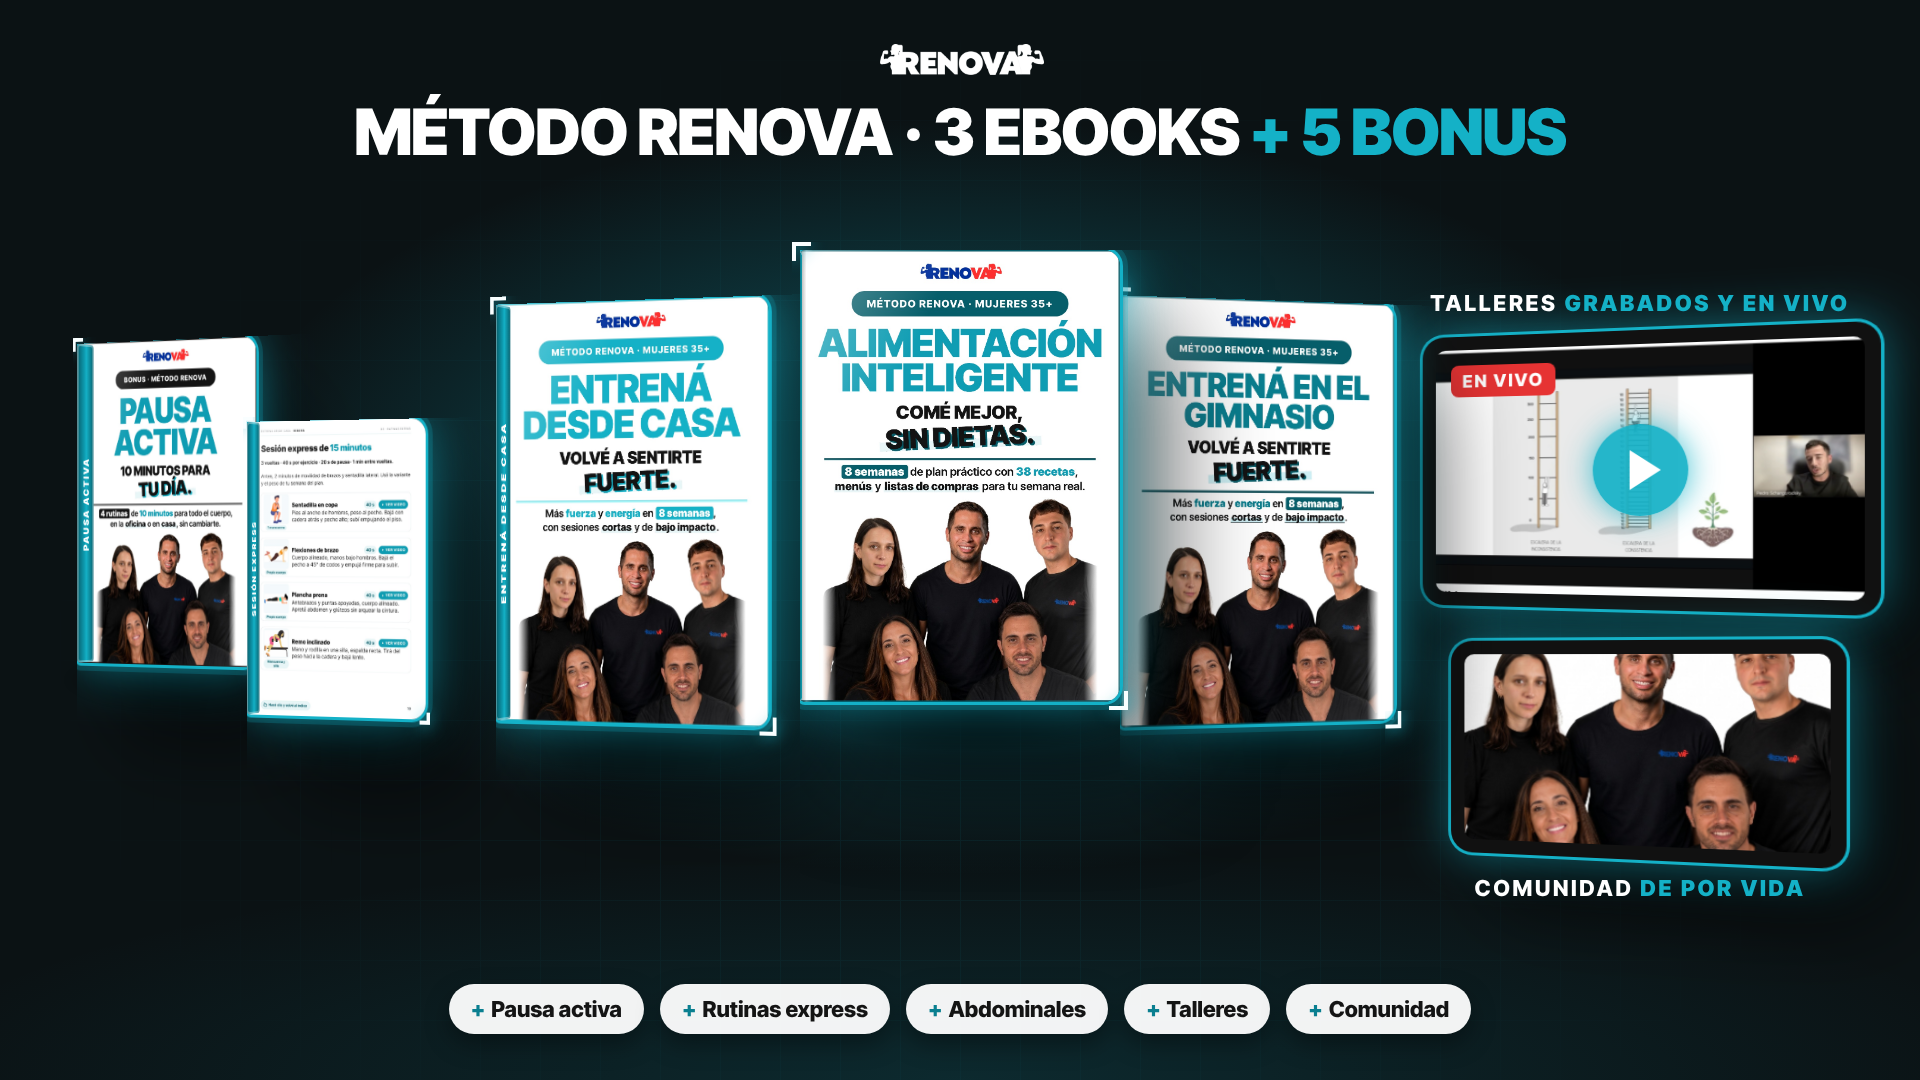
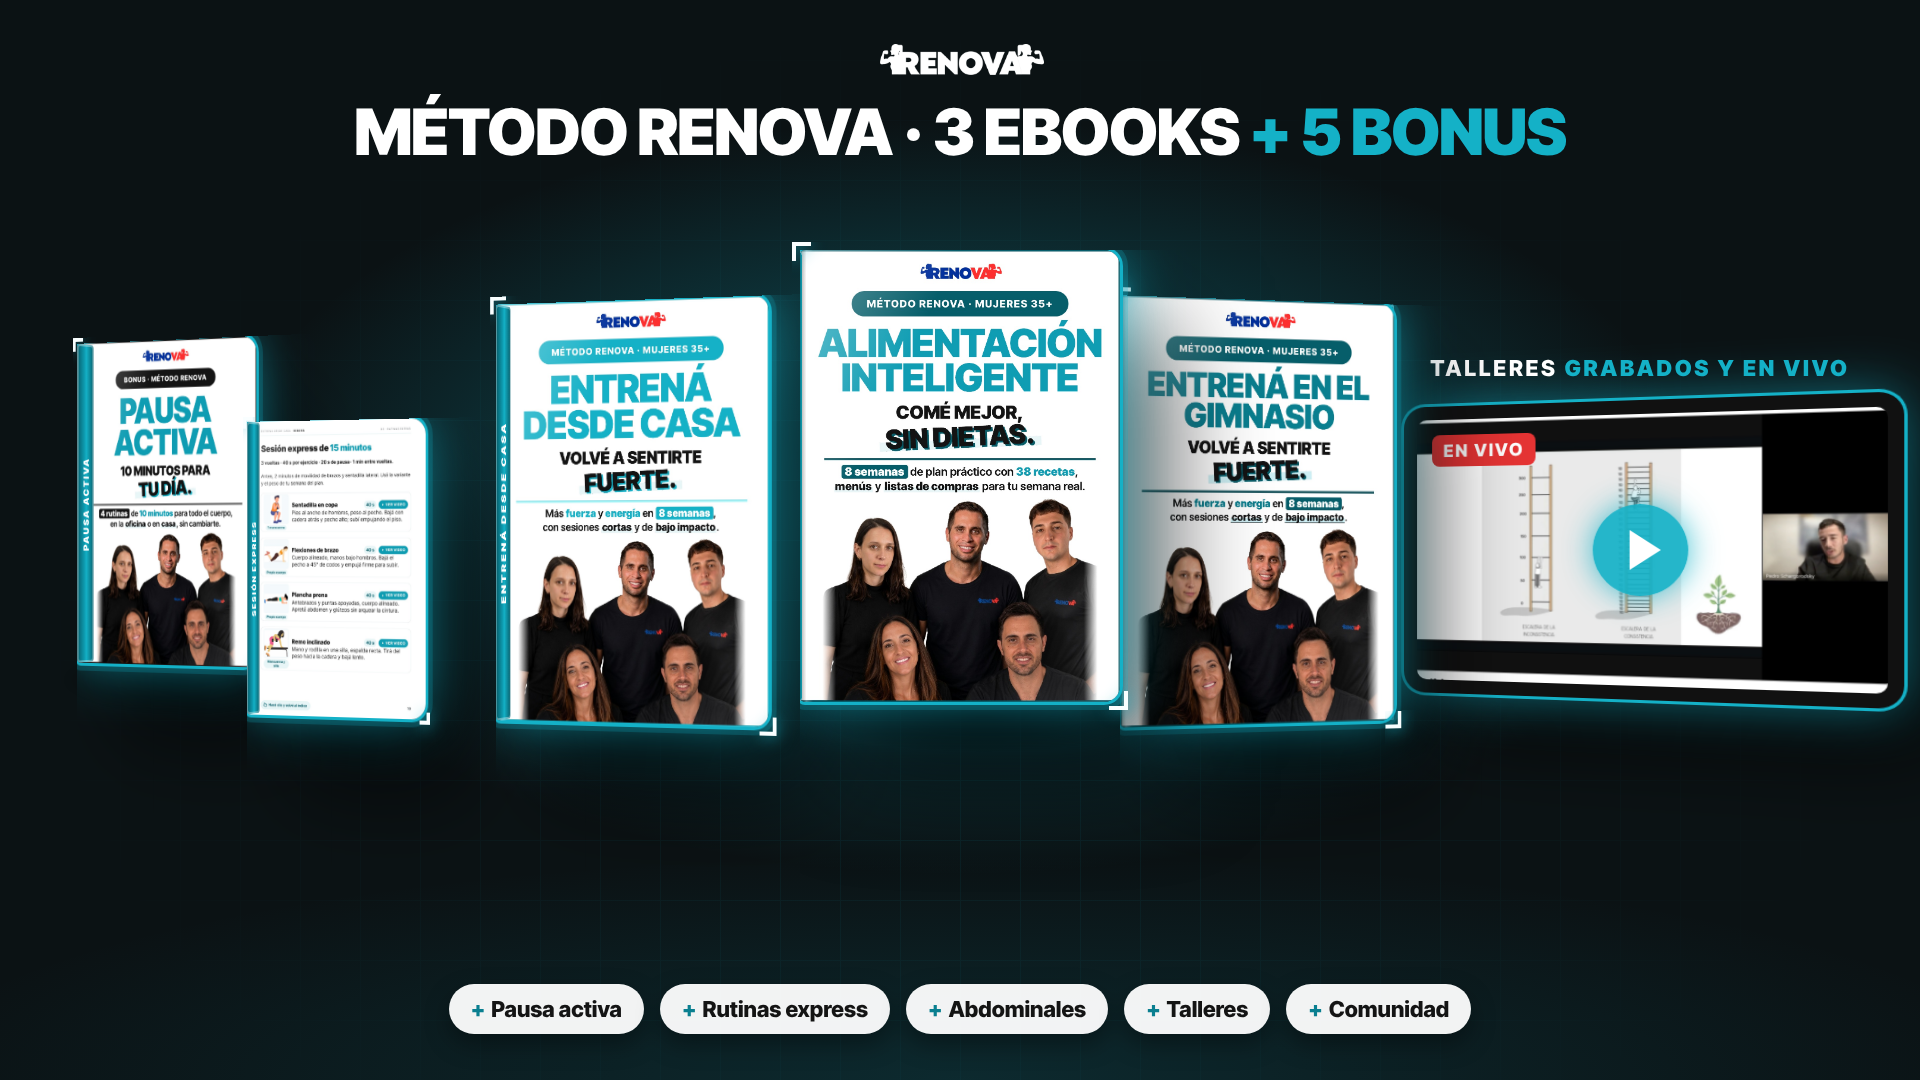
Pack completo: solo la pantalla del taller, sin la foto del equipo repetida
Claude-Session: https://claude.ai/code/session_01BK5fVJJTfveceUzp1xzv1m

Changed region(s): [[0.7188, 0.275, 1.0, 0.8556]]

diff --git a/fuentes/landing/mockups/pack_completo.html b/fuentes/landing/mockups/pack_completo.html
@@ -118,4 +118,4 @@ body{width:var(--w);height:var(--h);overflow:hidden;position:relative;
 .top{position:absolute;top:44px;left:0;right:0;text-align:center;color:#fff;z-index:6}
 .top h1{font:900 64px/1 InterTightW,sans-serif;text-transform:uppercase;letter-spacing:-.02em}
 .top h1 b{color:#14B1C7}
-body{--w:1920px;--h:1080px}</style><div class="grid"></div><div class="st"><div class="top"><img src="../img/logo.png" style="height:40px;filter:brightness(0) invert(1)"><h1 style="margin-top:12px">Método RENOVA · 3 ebooks <b>+ 5 bonus</b></h1></div><div class="shadow" style="left:61.5px;top:645px;width:241.5px"></div><div class="bk" style="left:50px;top:340px;width:230px;height:325px;z-index:1;transform:rotateY(-24deg)"><div class="sp" style="width:23px;--fs:10px"><span>PAUSA ACTIVA</span></div><div class="fr"><img src="pack/tapa_pausa.jpg"></div><div class="cn a"></div><div class="cn b"></div></div><div class="shadow" style="left:240.5px;top:697px;width:220.5px"></div><div class="bk" style="left:230px;top:420px;width:210px;height:297px;z-index:1;transform:rotateY(-20deg)"><div class="sp" style="width:21px;--fs:9px"><span>SESIÓN EXPRESS</span></div><div class="fr"><img src="pack/express_casa.jpg"></div><div class="cn a"></div><div class="cn b"></div></div><div class="shadow" style="left:495.0px;top:704px;width:315.0px"></div><div class="bk" style="left:480px;top:300px;width:300px;height:424px;z-index:2;transform:rotateY(-18deg)"><div class="sp" style="width:30px;--fs:13px"><span>ENTRENÁ DESDE CASA</span></div><div class="fr"><img src="pack/tapa_casa.jpg"></div><div class="cn a"></div><div class="cn b"></div></div><div class="shadow" style="left:1125.0px;top:704px;width:315.0px"></div><div class="bk" style="left:1110px;top:300px;width:300px;height:424px;z-index:2;transform:rotateY(18deg)"><div class="sp r" style="width:30px;--fs:13px"><span>ENTRENÁ EN EL GIMNASIO</span></div><div class="fr"><img src="pack/tapa_gym.jpg"></div><div class="cn a"></div><div class="cn b"></div></div><div class="shadow" style="left:816.0px;top:682px;width:336.0px"></div><div class="bk" style="left:800px;top:250px;width:320px;height:452px;z-index:4;transform:rotateY(0deg)"><div class="sp" style="width:32px;--fs:13px"><span>ALIMENTACIÓN INTELIGENTE</span></div><div class="fr"><img src="pack/tapa_nutri.jpg"></div><div class="cn a"></div><div class="cn b"></div></div><div class="scr" style="left:1420px;top:330px;width:440px;height:280px"><div class="in"><img src="../img/habitos.jpg"><span class="live">EN VIVO</span><div class="play"></div></div></div><div class="scr" style="left:1450px;top:640px;width:380px;height:220px"><div class="in"><img src="../img/comunidad.jpg"></div></div><div class="lb" style="left:1420px;top:290px;width:440px">Talleres <b>grabados y en vivo</b></div><div class="lb" style="left:1450px;top:875px;width:380px">Comunidad <b>de por vida</b></div><div class="chips"><span><i>+</i>Pausa activa</span><span><i>+</i>Rutinas express</span><span><i>+</i>Abdominales</span><span><i>+</i>Talleres</span><span><i>+</i>Comunidad</span></div></div>
+body{--w:1920px;--h:1080px}</style><div class="grid"></div><div class="st"><div class="top"><img src="../img/logo.png" style="height:40px;filter:brightness(0) invert(1)"><h1 style="margin-top:12px">Método RENOVA · 3 ebooks <b>+ 5 bonus</b></h1></div><div class="shadow" style="left:61.5px;top:645px;width:241.5px"></div><div class="bk" style="left:50px;top:340px;width:230px;height:325px;z-index:1;transform:rotateY(-24deg)"><div class="sp" style="width:23px;--fs:10px"><span>PAUSA ACTIVA</span></div><div class="fr"><img src="pack/tapa_pausa.jpg"></div><div class="cn a"></div><div class="cn b"></div></div><div class="shadow" style="left:240.5px;top:697px;width:220.5px"></div><div class="bk" style="left:230px;top:420px;width:210px;height:297px;z-index:1;transform:rotateY(-20deg)"><div class="sp" style="width:21px;--fs:9px"><span>SESIÓN EXPRESS</span></div><div class="fr"><img src="pack/express_casa.jpg"></div><div class="cn a"></div><div class="cn b"></div></div><div class="shadow" style="left:495.0px;top:704px;width:315.0px"></div><div class="bk" style="left:480px;top:300px;width:300px;height:424px;z-index:2;transform:rotateY(-18deg)"><div class="sp" style="width:30px;--fs:13px"><span>ENTRENÁ DESDE CASA</span></div><div class="fr"><img src="pack/tapa_casa.jpg"></div><div class="cn a"></div><div class="cn b"></div></div><div class="shadow" style="left:1125.0px;top:704px;width:315.0px"></div><div class="bk" style="left:1110px;top:300px;width:300px;height:424px;z-index:2;transform:rotateY(18deg)"><div class="sp r" style="width:30px;--fs:13px"><span>ENTRENÁ EN EL GIMNASIO</span></div><div class="fr"><img src="pack/tapa_gym.jpg"></div><div class="cn a"></div><div class="cn b"></div></div><div class="shadow" style="left:816.0px;top:682px;width:336.0px"></div><div class="bk" style="left:800px;top:250px;width:320px;height:452px;z-index:4;transform:rotateY(0deg)"><div class="sp" style="width:32px;--fs:13px"><span>ALIMENTACIÓN INTELIGENTE</span></div><div class="fr"><img src="pack/tapa_nutri.jpg"></div><div class="cn a"></div><div class="cn b"></div></div><div class="scr" style="left:1400px;top:400px;width:480px;height:300px"><div class="in"><img src="../img/habitos.jpg"><span class="live">EN VIVO</span><div class="play"></div></div></div><div class="lb" style="left:1400px;top:355px;width:480px">Talleres <b>grabados y en vivo</b></div><div class="chips"><span><i>+</i>Pausa activa</span><span><i>+</i>Rutinas express</span><span><i>+</i>Abdominales</span><span><i>+</i>Talleres</span><span><i>+</i>Comunidad</span></div></div>

diff --git a/fuentes/landing/mockups/pack_completo.py b/fuentes/landing/mockups/pack_completo.py
@@ -65,10 +65,8 @@ inner += book("tapa_casa.jpg","ENTRENÁ DESDE CASA",480,300,300,-18,2)
 inner += book("tapa_gym.jpg","ENTRENÁ EN EL GIMNASIO",1110,300,300,18,2)
 inner += book("tapa_nutri.jpg","ALIMENTACIÓN INTELIGENTE",800,250,320,0,4)
 # talleres en pantalla a la derecha
-inner += '<div class="scr" style="left:1420px;top:330px;width:440px;height:280px"><div class="in"><img src="../img/habitos.jpg"><span class="live">EN VIVO</span><div class="play"></div></div></div>'
-inner += '<div class="scr" style="left:1450px;top:640px;width:380px;height:220px"><div class="in"><img src="../img/comunidad.jpg"></div></div>'
-inner += '<div class="lb" style="left:1420px;top:290px;width:440px">Talleres <b>grabados y en vivo</b></div>'
-inner += '<div class="lb" style="left:1450px;top:875px;width:380px">Comunidad <b>de por vida</b></div>'
+inner += '<div class="scr" style="left:1400px;top:400px;width:480px;height:300px"><div class="in"><img src="../img/habitos.jpg"><span class="live">EN VIVO</span><div class="play"></div></div></div>'
+inner += '<div class="lb" style="left:1400px;top:355px;width:480px">Talleres <b>grabados y en vivo</b></div>'
 inner += '<div class="chips"><span><i>+</i>Pausa activa</span><span><i>+</i>Rutinas express</span><span><i>+</i>Abdominales</span><span><i>+</i>Talleres</span><span><i>+</i>Comunidad</span></div>'
 pg("pack_completo",1920,1080,inner)
 print("ok")
